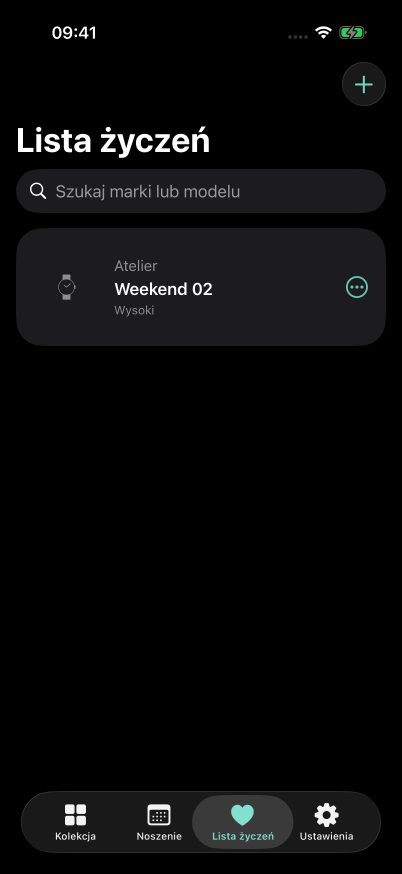
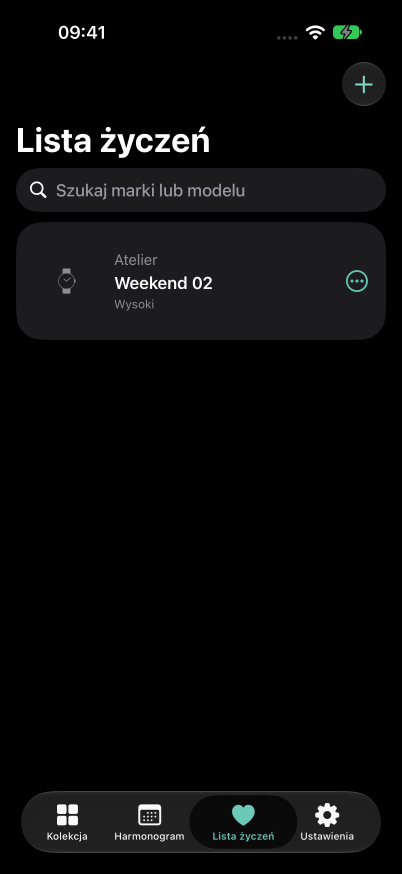
fix: rename Polish wear section to Harmonogram

diff --git a/docs/promocja/README.md b/docs/promocja/README.md
@@ -8,7 +8,7 @@ Pierwszy automat, prezent na ważną okazję, ulubiony zegarek na co dzień. **M
 
 | Twoja kolekcja. Twoje historie. | Co dziś na nadgarstku? | Zrób miejsce na marzenia. |
 | :---: | :---: | :---: |
-| ![Szczegóły zegarka Forest 01: zdjęcie, status i szybkie oznaczanie noszenia](screenshots/zegarek.png) | ![Historia noszenia z przykładowym wpisem dla zegarka Forest 01](screenshots/noszenie.png) | ![Lista życzeń z zegarkiem Weekend 02 i wysokim priorytetem](screenshots/lista-zyczen.png) |
+| ![Szczegóły zegarka Forest 01: zdjęcie, status i szybkie oznaczanie noszenia](screenshots/zegarek.png) | ![Harmonogram z przykładowym wpisem dla zegarka Forest 01](screenshots/noszenie.png) | ![Lista życzeń z zegarkiem Weekend 02 i wysokim priorytetem](screenshots/lista-zyczen.png) |
 | Zdjęcia i szczegóły każdego zegarka w jednym miejscu. | Oznacz, co nosisz, i wracaj do historii swojej kolekcji. | Zapisuj wymarzone modele i ustalaj priorytety. |
 
 ### W ciemnym motywie
@@ -17,7 +17,7 @@ Ta sama kolekcja, historia i plany — w ciemnej oprawie.
 
 | Twoja kolekcja. Twoje historie. | Co dziś na nadgarstku? | Zrób miejsce na marzenia. |
 | :---: | :---: | :---: |
-| ![Ciemny motyw: szczegóły zegarka Forest 01 ze zdjęciem i oznaczaniem noszenia](screenshots/zegarek-dark.png) | ![Ciemny motyw: historia noszenia zegarka Forest 01](screenshots/noszenie-dark.png) | ![Ciemny motyw: lista życzeń z zegarkiem Weekend 02 i wysokim priorytetem](screenshots/lista-zyczen-dark.png) |
+| ![Ciemny motyw: szczegóły zegarka Forest 01 ze zdjęciem i oznaczaniem noszenia](screenshots/zegarek-dark.png) | ![Ciemny motyw: harmonogram zegarka Forest 01](screenshots/noszenie-dark.png) | ![Ciemny motyw: lista życzeń z zegarkiem Weekend 02 i wysokim priorytetem](screenshots/lista-zyczen-dark.png) |
 
 ### Mniej szukania. Więcej przyjemności z kolekcjonowania.
 
@@ -32,4 +32,4 @@ Ta sama kolekcja, historia i plany — w ciemnej oprawie.
 
 *iPhone · iOS 17 lub nowszy · język polski i angielski. Aplikacja jest w rozwoju, przed publikacją w App Store. Materiał przedstawia obecny lokalny zakres FREE.*
 
-*Autentyczne zrzuty z aplikacji uruchomionej w symulatorze, wykonane 13.09.2026. Nazwy i wpisy są fikcyjnymi danymi demonstracyjnymi; ilustrację zegarka wygenerowano przy użyciu AI i dodano do aplikacji jako zdjęcie. Interfejs screenów nie był retuszowany.*
+*Autentyczne zrzuty z aplikacji uruchomionej w symulatorze iPhone 18 Pro, wykonane 16.09.2026. Nazwy i wpisy są fikcyjnymi danymi demonstracyjnymi; ilustrację zegarka wygenerowano przy użyciu AI i dodano do aplikacji jako zdjęcie. Interfejs screenów nie był retuszowany.*
